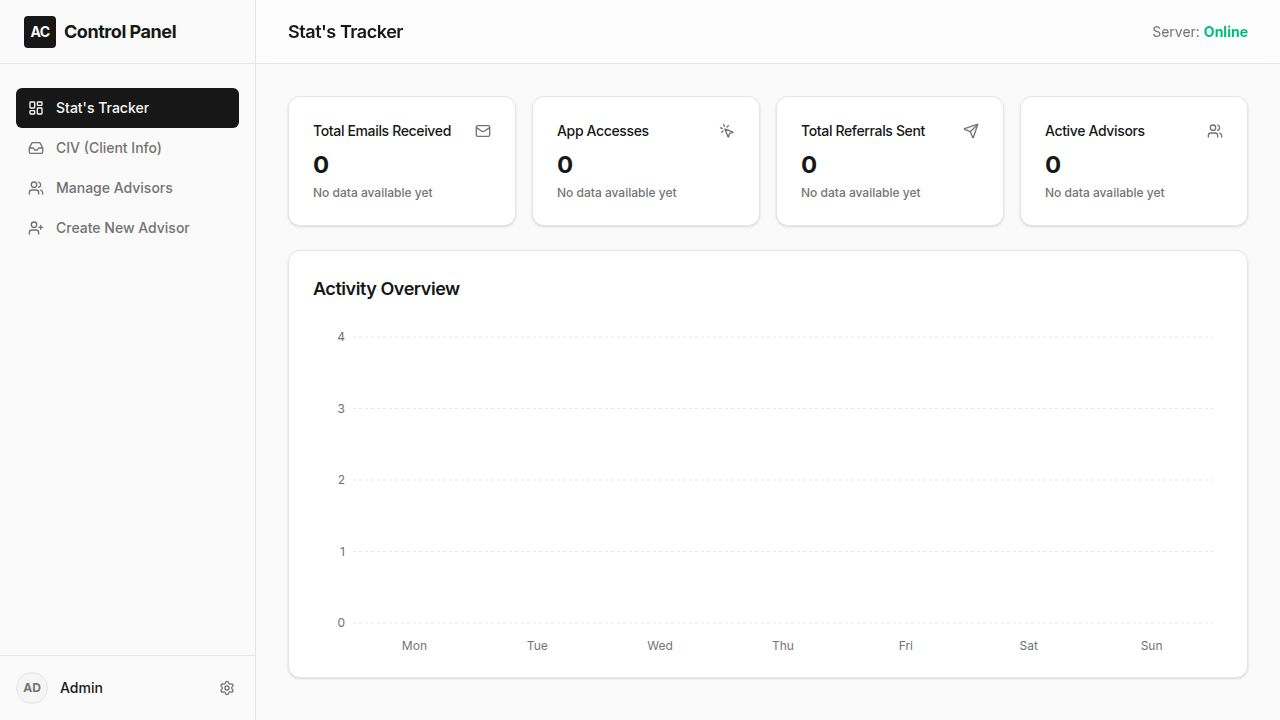
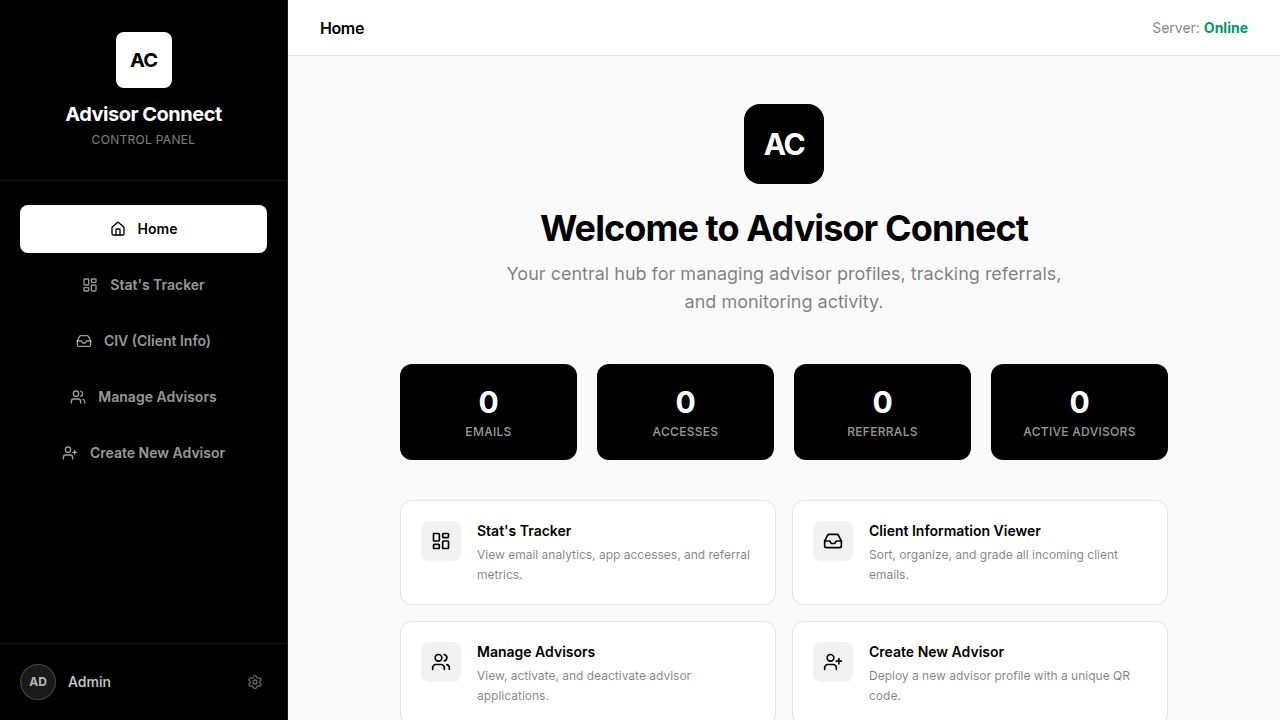
Update application branding and navigation with new styling and home page
Modify meta tags, sidebar layout, navigation links, and introduce a new HomePage component with updated styling and routing.

Replit-Commit-Author: Agent
Replit-Commit-Session-Id: 5f33d553-cf69-4d01-9cc1-64e690e2295e
Replit-Commit-Checkpoint-Type: full_checkpoint
Replit-Commit-Event-Id: 3bec33ea-6e14-47da-be55-5bff934ae9e2
Replit-Commit-Screenshot-Url: https://storage.googleapis.com/screenshot-production-us-central1/b3a1b30a-4ac8-46b3-acb6-b45b587de728/5f33d553-cf69-4d01-9cc1-64e690e2295e/9qnieMX
Replit-Helium-Checkpoint-Created: true

diff --git a/client/src/pages/HomePage.tsx b/client/src/pages/HomePage.tsx
@@ -1,0 +1,96 @@
+import { Link } from "wouter";
+import { useQuery } from "@tanstack/react-query";
+import { LayoutDashboard, Inbox, Users, UserPlus, ArrowRight } from "lucide-react";
+
+export default function HomePage() {
+  const { data: stats } = useQuery<{
+    totalEmails: number;
+    totalAccesses: number;
+    totalReferrals: number;
+    activeAdvisors: number;
+  }>({ queryKey: ["/api/dashboard/stats"] });
+
+  const quickLinks = [
+    {
+      href: "/stats",
+      label: "Stat's Tracker",
+      description: "View email analytics, app accesses, and referral metrics.",
+      icon: LayoutDashboard,
+    },
+    {
+      href: "/civ",
+      label: "Client Information Viewer",
+      description: "Sort, organize, and grade all incoming client emails.",
+      icon: Inbox,
+    },
+    {
+      href: "/manage",
+      label: "Manage Advisors",
+      description: "View, activate, and deactivate advisor applications.",
+      icon: Users,
+    },
+    {
+      href: "/create",
+      label: "Create New Advisor",
+      description: "Deploy a new advisor profile with a unique QR code.",
+      icon: UserPlus,
+    },
+  ];
+
+  return (
+    <div className="space-y-10 animate-in fade-in slide-in-from-bottom-4 duration-500">
+      <div className="text-center pt-4 pb-2">
+        <div className="inline-flex items-center justify-center w-20 h-20 bg-black rounded-2xl mb-6">
+          <span className="text-white font-black text-3xl tracking-tighter">AC</span>
+        </div>
+        <h1 className="text-4xl font-bold tracking-tight text-black">Welcome to Advisor Connect</h1>
+        <p className="text-black/50 mt-3 text-lg max-w-xl mx-auto">
+          Your central hub for managing advisor profiles, tracking referrals, and monitoring activity.
+        </p>
+      </div>
+
+      <div className="grid grid-cols-2 lg:grid-cols-4 gap-5 max-w-3xl mx-auto">
+        <div className="bg-black rounded-xl p-5 text-center">
+          <div className="text-3xl font-bold text-white" data-testid="home-stat-emails">{stats?.totalEmails ?? 0}</div>
+          <div className="text-xs text-white/60 mt-1 font-medium uppercase tracking-wide">Emails</div>
+        </div>
+        <div className="bg-black rounded-xl p-5 text-center">
+          <div className="text-3xl font-bold text-white" data-testid="home-stat-accesses">{stats?.totalAccesses ?? 0}</div>
+          <div className="text-xs text-white/60 mt-1 font-medium uppercase tracking-wide">Accesses</div>
+        </div>
+        <div className="bg-black rounded-xl p-5 text-center">
+          <div className="text-3xl font-bold text-white" data-testid="home-stat-referrals">{stats?.totalReferrals ?? 0}</div>
+          <div className="text-xs text-white/60 mt-1 font-medium uppercase tracking-wide">Referrals</div>
+        </div>
+        <div className="bg-black rounded-xl p-5 text-center">
+          <div className="text-3xl font-bold text-white" data-testid="home-stat-advisors">{stats?.activeAdvisors ?? 0}</div>
+          <div className="text-xs text-white/60 mt-1 font-medium uppercase tracking-wide">Active Advisors</div>
+        </div>
+      </div>
+
+      <div className="grid grid-cols-1 md:grid-cols-2 gap-4 max-w-3xl mx-auto">
+        {quickLinks.map((link) => (
+          <Link
+            key={link.href}
+            href={link.href}
+            className="group flex items-start gap-4 p-5 rounded-xl border border-black/10 bg-white hover:bg-black hover:text-white transition-all duration-300 cursor-pointer"
+            data-testid={`home-link-${link.label.toLowerCase().replace(/[^a-z0-9]+/g, "-")}`}
+          >
+            <div className="shrink-0 w-10 h-10 rounded-lg bg-black/5 group-hover:bg-white/10 flex items-center justify-center transition-colors">
+              <link.icon className="h-5 w-5 text-black group-hover:text-white transition-colors" />
+            </div>
+            <div className="flex-1 min-w-0">
+              <div className="font-semibold text-sm flex items-center gap-2">
+                {link.label}
+                <ArrowRight className="h-3 w-3 opacity-0 group-hover:opacity-100 transition-opacity" />
+              </div>
+              <p className="text-xs mt-1 text-black/50 group-hover:text-white/60 transition-colors leading-relaxed">
+                {link.description}
+              </p>
+            </div>
+          </Link>
+        ))}
+      </div>
+    </div>
+  );
+}

diff --git a/client/src/components/layout/AppLayout.tsx b/client/src/components/layout/AppLayout.tsx
@@ -1,74 +1,74 @@
 import { Link, useLocation } from "wouter";
-import { LayoutDashboard, Users, UserPlus, Inbox, Settings } from "lucide-react";
+import { Home, LayoutDashboard, Users, UserPlus, Inbox, Settings } from "lucide-react";
 
 export function AppLayout({ children }: { children: React.ReactNode }) {
   const [location] = useLocation();
 
   const navItems = [
-    { href: "/", label: "Stat's Tracker", icon: LayoutDashboard },
+    { href: "/", label: "Home", icon: Home },
+    { href: "/stats", label: "Stat's Tracker", icon: LayoutDashboard },
     { href: "/civ", label: "CIV (Client Info)", icon: Inbox },
     { href: "/manage", label: "Manage Advisors", icon: Users },
     { href: "/create", label: "Create New Advisor", icon: UserPlus },
   ];
 
   return (
-    <div className="min-h-screen bg-background flex text-foreground">
-      {/* Sidebar */}
-      <aside className="w-64 border-r border-border bg-sidebar flex flex-col hidden md:flex">
-        <div className="h-16 flex items-center px-6 border-b border-border">
-          <div className="flex items-center gap-2">
-            <div className="w-8 h-8 bg-primary rounded flex items-center justify-center">
-              <span className="text-primary-foreground font-bold text-sm tracking-tighter">AC</span>
-            </div>
-            <h1 className="font-bold text-lg tracking-tight">Control Panel</h1>
+    <div className="min-h-screen bg-black flex text-white">
+      <aside className="w-72 bg-black flex flex-col hidden md:flex border-r border-white/10">
+        <div className="flex flex-col items-center py-8 px-6 border-b border-white/10">
+          <div className="w-14 h-14 bg-white rounded-lg flex items-center justify-center mb-3">
+            <span className="text-black font-black text-xl tracking-tighter">AC</span>
           </div>
+          <h1 className="font-bold text-xl tracking-tight text-white">Advisor Connect</h1>
+          <p className="text-xs text-white/50 mt-1 tracking-wide uppercase">Control Panel</p>
         </div>
-        <nav className="flex-1 py-6 px-4 space-y-1">
+
+        <nav className="flex-1 py-6 px-5 space-y-2 flex flex-col items-center">
           {navItems.map((item) => {
             const isActive = location === item.href;
             return (
               <Link
                 key={item.href}
                 href={item.href}
-                className={`flex items-center gap-3 px-3 py-2.5 rounded-md text-sm font-medium transition-colors ${
+                className={`flex items-center justify-center gap-3 w-full px-5 py-3.5 rounded-lg text-sm font-semibold transition-all duration-200 ${
                   isActive
-                    ? "bg-primary text-primary-foreground"
-                    : "text-muted-foreground hover:bg-muted hover:text-foreground"
+                    ? "bg-white text-black"
+                    : "text-white/60 hover:bg-white/10 hover:text-white"
                 }`}
                 data-testid={`nav-${item.label.toLowerCase().replace(/[^a-z0-9]+/g, "-")}`}
               >
-                <item.icon className="h-4 w-4" />
+                <item.icon className="h-4 w-4 shrink-0" />
                 {item.label}
               </Link>
             );
           })}
         </nav>
-        <div className="p-4 border-t border-border">
+
+        <div className="p-5 border-t border-white/10">
           <div className="flex items-center justify-between">
             <div className="flex items-center gap-3">
-              <div className="h-8 w-8 rounded-full bg-muted flex items-center justify-center text-muted-foreground text-xs font-bold border border-border">
+              <div className="h-9 w-9 rounded-full bg-white/10 flex items-center justify-center text-white/70 text-xs font-bold border border-white/20">
                 AD
               </div>
-              <div className="text-sm font-medium">Admin</div>
+              <div className="text-sm font-medium text-white/80">Admin</div>
             </div>
-            <button className="text-muted-foreground hover:text-foreground transition-colors p-1">
+            <button className="text-white/40 hover:text-white transition-colors p-1">
               <Settings className="h-4 w-4" />
             </button>
           </div>
         </div>
       </aside>
 
-      {/* Main Content */}
-      <main className="flex-1 flex flex-col h-screen overflow-hidden bg-background">
-        <header className="h-16 flex items-center justify-between px-8 border-b border-border bg-card/50 backdrop-blur-sm sticky top-0 z-10">
-          <h2 className="text-lg font-semibold tracking-tight">
-            {navItems.find((item) => item.href === location)?.label || "Dashboard"}
+      <main className="flex-1 flex flex-col h-screen overflow-hidden bg-white text-black">
+        <header className="h-14 flex items-center justify-between px-8 border-b border-black/10 bg-white sticky top-0 z-10">
+          <h2 className="text-base font-semibold tracking-tight text-black">
+            {navItems.find((item) => item.href === location)?.label || "Home"}
           </h2>
-          <div className="flex items-center gap-4 text-sm text-muted-foreground">
-            <span>Server: <strong className="text-emerald-500">Online</strong></span>
+          <div className="flex items-center gap-4 text-sm text-black/50">
+            <span>Server: <strong className="text-emerald-600">Online</strong></span>
           </div>
         </header>
-        <div className="flex-1 overflow-auto p-8">
+        <div className="flex-1 overflow-auto p-8 bg-neutral-50">
           <div className="max-w-6xl mx-auto">
             {children}
           </div>

diff --git a/client/index.html b/client/index.html
@@ -4,14 +4,14 @@
     <meta charset="UTF-8" />
     <meta name="viewport" content="width=device-width, initial-scale=1.0, maximum-scale=1" />
 
-    <meta property="og:title" content="Advisor Connect Control Panel" />
-    <meta property="og:description" content="Master application and dashboard for managing Advisor Connect profiles." />
+    <meta property="og:title" content="Advisor Connect" />
+    <meta property="og:description" content="Master control panel for managing Advisor Connect profiles, referrals, and client communications." />
     <meta property="og:type" content="website" />
     <meta property="og:image" content="https://replit.com/public/images/opengraph.png" />
     <meta name="twitter:card" content="summary_large_image" />
     <meta name="twitter:site" content="@replit" />
-    <meta name="twitter:title" content="Advisor Connect Control Panel" />
-    <meta name="twitter:description" content="Master application and dashboard for managing Advisor Connect profiles." />
+    <meta name="twitter:title" content="Advisor Connect" />
+    <meta name="twitter:description" content="Master control panel for managing Advisor Connect profiles, referrals, and client communications." />
     <meta name="twitter:image" content="https://replit.com/public/images/opengraph.png" />
 
     <link rel="icon" type="image/png" href="/favicon.png" />

diff --git a/client/src/App.tsx b/client/src/App.tsx
@@ -5,6 +5,7 @@ import { Toaster } from "@/components/ui/toaster";
 import { TooltipProvider } from "@/components/ui/tooltip";
 import NotFound from "@/pages/not-found";
 import { AppLayout } from "@/components/layout/AppLayout";
+import HomePage from "@/pages/HomePage";
 import Dashboard from "@/pages/Dashboard";
 import CIV from "@/pages/CIV";
 import ManageAdvisors from "@/pages/ManageAdvisors";
@@ -14,7 +15,8 @@ function Router() {
   return (
     <AppLayout>
       <Switch>
-        <Route path="/" component={Dashboard}/>
+        <Route path="/" component={HomePage}/>
+        <Route path="/stats" component={Dashboard}/>
         <Route path="/civ" component={CIV}/>
         <Route path="/manage" component={ManageAdvisors}/>
         <Route path="/create" component={CreateAdvisor}/>